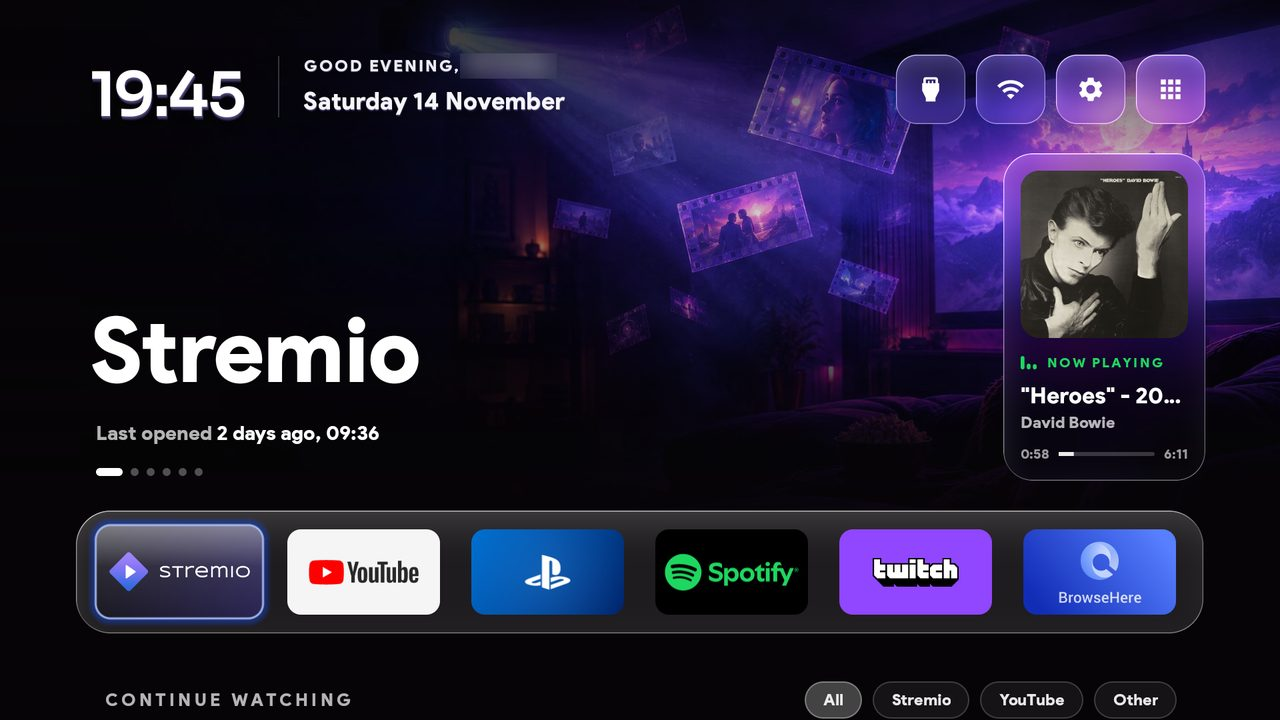
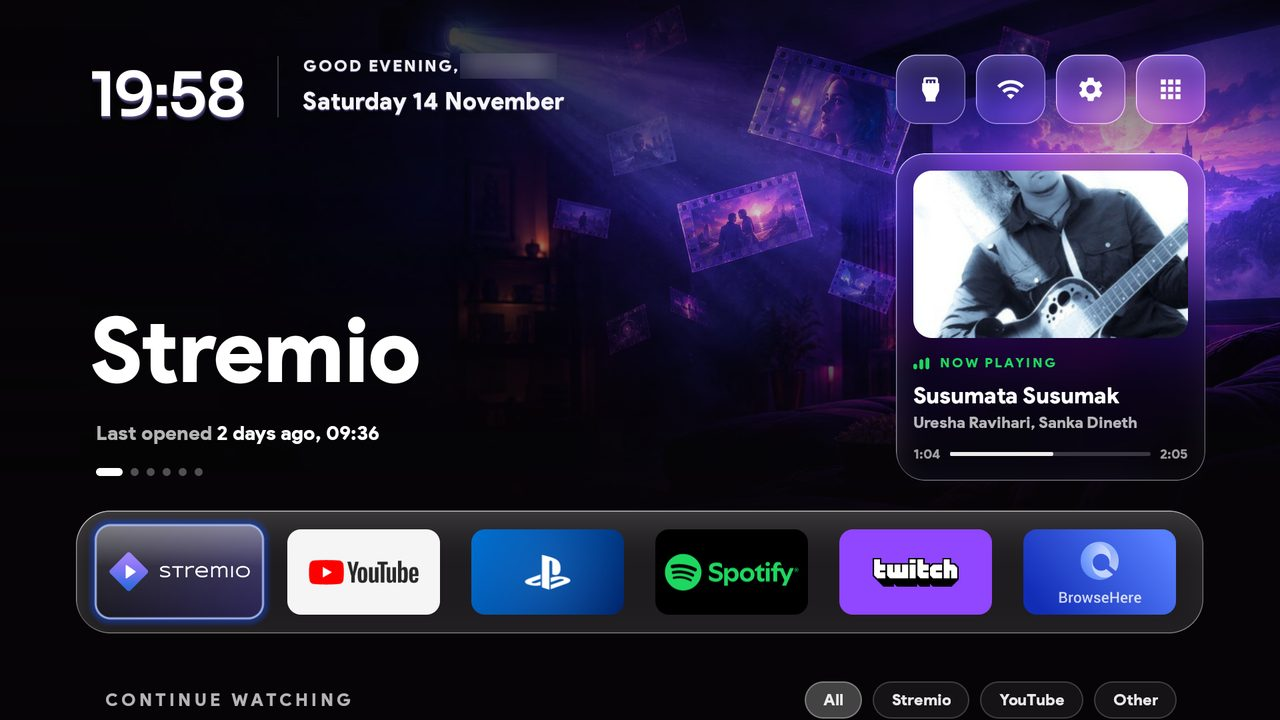
my-tv: README as Midnight Glass, with the wider now playing card and the uncut music
Names the fork and who made it, shows the new Home card and the screensaver card, and says how the screensaver keeps music from cutting at scene changes.

diff --git a/my-tv/README.md b/my-tv/README.md
@@ -1,4 +1,16 @@
-# My TV's art
+# Midnight Glass
+
+![Midnight Glass on Home: the now playing card under the glass top buttons, the dock and Continue watching](screenshots/home-now-playing.jpg)
+
+A fork of the cleanyourtv launcher by [ruchira-edirisinghe](https://github.com/ruchira-edirisinghe), made for their
+own TV to make everyday watching and working easier: liquid glass, a now playing card for Spotify, Continue watching
+banners with filters, a hero banner for every app and a live 4K screensaver that keeps the music going. Anyone can
+build it and change it to their liking; everything below says which switch or file does what.
+
+A lighter version that needs no fork, only the main launcher's own settings, is offered to the main repo as the
+`midnight-glass` theme.
+
+## My TV's art
 
 The pictures this fork's launcher shows on my TCL Smart TV Pro (G08, Google TV 14). They are not built into the
 APK: the launcher reads them from its theme folder on the TV.
@@ -69,13 +81,19 @@ The glass cards show a softened copy of the video behind them, refreshed a coupl
 a card is up: each copy reads a 4K frame back from the decoder, and doing that all the time made the screensaver
 stutter.
 
+Music keeps playing cleanly through the screensaver. On this TV, closing a video player and opening another makes the
+sound system move its lip-sync delay (135 ms to none and back), which cut Spotify at every scene change. So the
+screensaver keeps one decoder (`ScenePlayer`) for as long as it runs: each scene loops on one clock and the next one
+follows on the same decoder, and every scene is 30 fps so the delay never has a reason to move.
+
 The weather (`saver_weather`) comes from [Open-Meteo](https://open-meteo.com/): set `weather_location` to a place
 name or `latitude,longitude`, or leave it empty to use the place the TV's internet address points to.
 
 The scenes are not in this repo. They are free 3840x2160 videos from
 [Pixabay](https://pixabay.com/service/license-summary/), which may be used but not passed on as files.
 [`saver/get-scenes.sh`](saver/get-scenes.sh) downloads them from there, keeps them at 4K without sound, smooths the
-loops that would jump, plays the 25 fps ones at 30 fps (25 judders on the 60 Hz panel) and writes them to the TV:
+loops that would jump, brings every one to 30 fps (25 fps ones play their frames a fifth faster, as 25 judders on the
+60 Hz panel; 60 fps ones keep every other frame) and writes them to the TV:
 
 ```bash
 TV_HOST=<tv ip>:<port> bash my-tv/saver/get-scenes.sh
@@ -89,14 +107,15 @@ Any other `.mp4`, `.webm` or `.mkv` put in the theme folder's `saver/` joins the
 ![Home with the upright now playing card on the right](screenshots/home-now-playing.jpg)
 
 While Spotify plays (`now_playing`, the apps in `now_playing_apps`), an upright glass card, the cover on top and the
-song, the artist and how far in under it, stands on Home on the right, between the four top buttons and the dock,
-its cover sized so the gaps above and below it match. It fades out as soon as the apps scroll and comes back at the
+song, the artist and how far in under it, stands on Home on the right, between the four top buttons and the dock and
+exactly as wide as the buttons, with the same gap above and below it. The song's whole name shows, over up to three
+lines, and the cover takes the height the text leaves. It fades out as soon as the apps scroll and comes back at the
 top.
 
 ![The screensaver with the now playing card lying in its bottom right corner](screenshots/saver-now-playing.jpg)
 
 On the live screensaver the card lies down in the bottom right corner, the cover at the left, under a "Now playing
-on Spotify" kicker with small dancing bars, and stays still.
+on Spotify" kicker with small dancing bars, one line for the title, and stays still.
 
 While a song plays:
 
